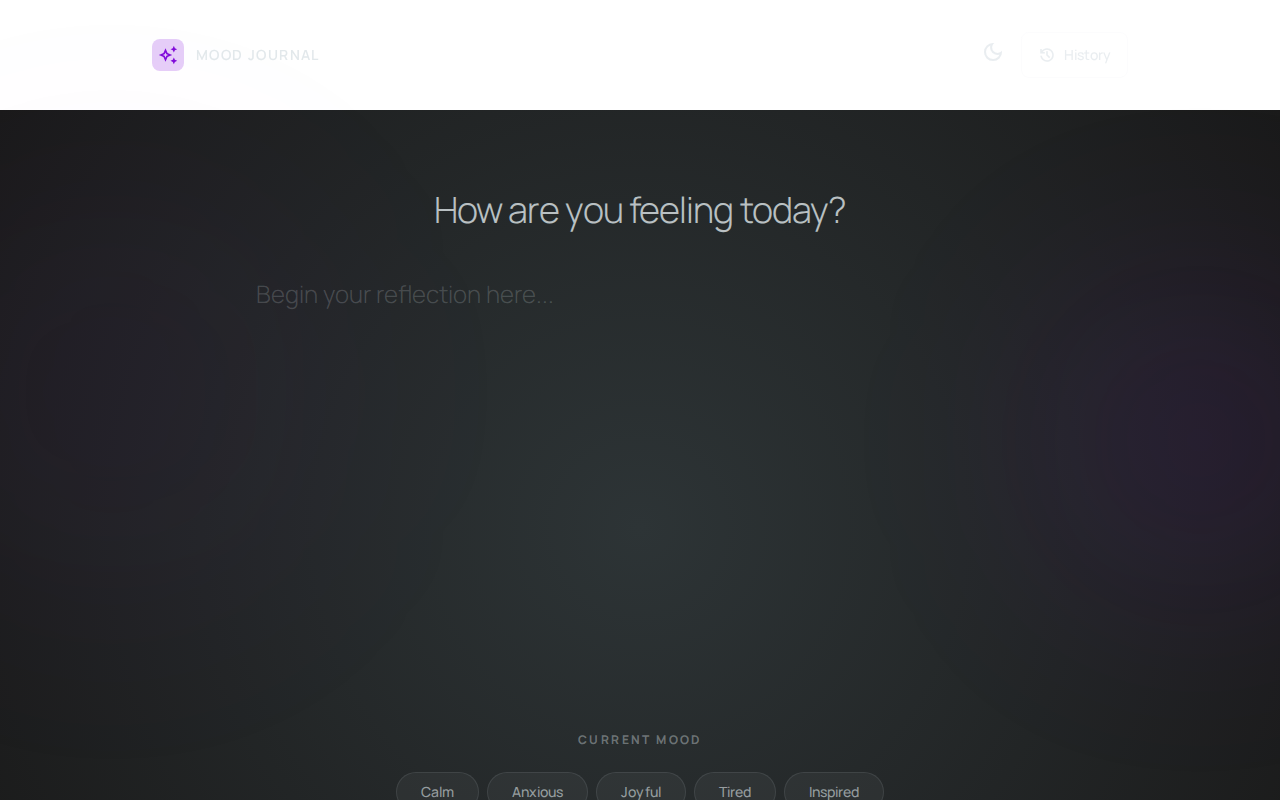
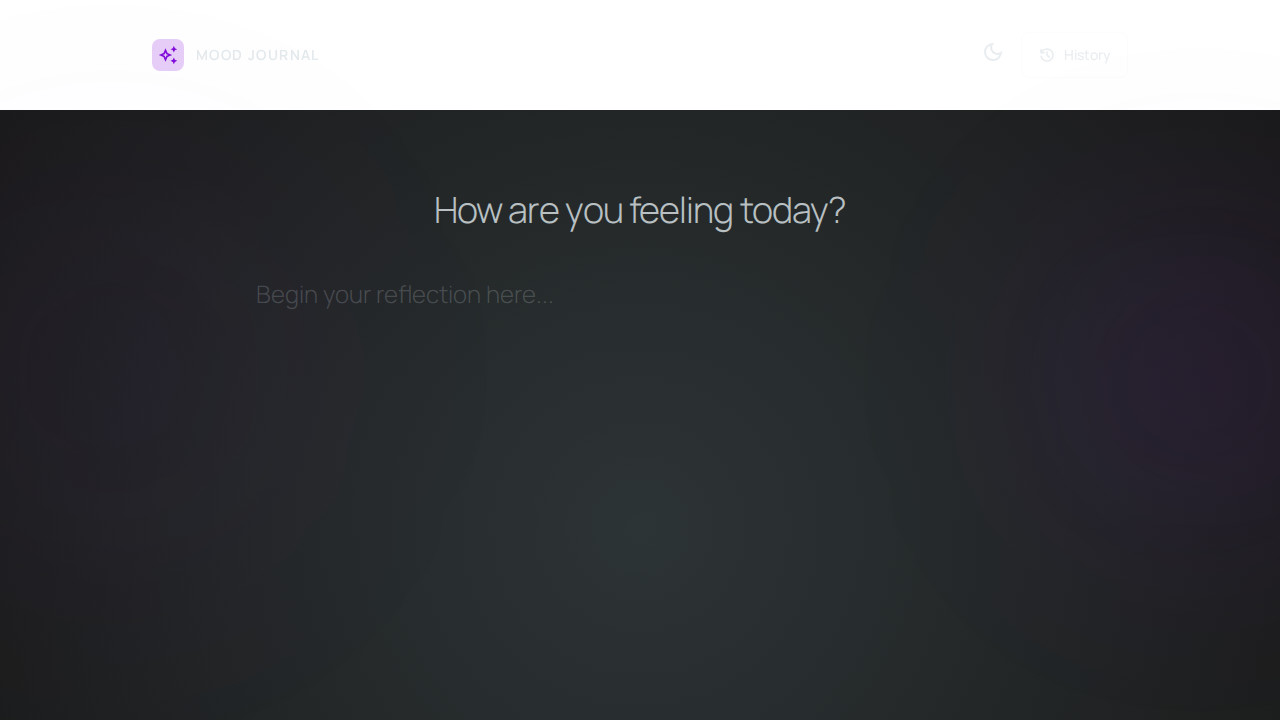
Fix MoodChips visibility on light backgrounds
- Added `editorLight` and `editorActiveLight` variants to `Button` component for better contrast on light backgrounds.
- Updated `MoodChips` to use light variants when `isLightBg` is true.
- Ensures emotion tags are readable when positive/negative sentiment triggers light background colors in the Editor.

diff --git a/src/components/ui/MoodChips.jsx b/src/components/ui/MoodChips.jsx
@@ -7,16 +7,23 @@ export const MoodChips = ({ selectedMood, onSelect, isLightBg }) => {
     <div className="flex flex-col items-center gap-4">
       <h4 className={`${isLightBg ? "text-journal-text/40" : "text-off-white/40"} text-xs font-bold uppercase tracking-[0.2em] transition-colors duration-1500`}>Current Mood</h4>
       <div className="flex gap-2 p-2 flex-wrap justify-center max-w-xl">
-        {MOODS.map((mood) => (
-          <Button
-            key={mood.value}
-            variant={selectedMood === mood.value ? 'editorActive' : 'editor'}
-            onClick={() => onSelect(mood)}
-            className="h-10 px-6 text-sm font-medium transition-all duration-300"
-          >
-            {mood.label}
-          </Button>
-        ))}
+        {MOODS.map((mood) => {
+          const isSelected = selectedMood === mood.value;
+          const variant = isLightBg
+            ? (isSelected ? 'editorActiveLight' : 'editorLight')
+            : (isSelected ? 'editorActive' : 'editor');
+
+          return (
+            <Button
+              key={mood.value}
+              variant={variant}
+              onClick={() => onSelect(mood)}
+              className="h-10 px-6 text-sm font-medium transition-all duration-300"
+            >
+              {mood.label}
+            </Button>
+          );
+        })}
       </div>
     </div>
   );

diff --git a/src/components/ui/Button.jsx b/src/components/ui/Button.jsx
@@ -10,6 +10,8 @@ export const Button = ({ children, className, variant = 'primary', ...props }) =
     ghost: "text-journal-text dark:text-white hover:bg-black/5 dark:hover:bg-white/10",
     editor: "border border-off-white/10 bg-off-white/5 hover:bg-editor-purple/20 hover:border-editor-purple/30 text-off-white/60 hover:text-off-white",
     editorActive: "border border-editor-purple/40 bg-editor-purple/20 text-white",
+    editorLight: "border border-journal-text/20 bg-journal-text/5 hover:bg-journal-text/10 hover:border-journal-text/30 text-journal-text/60 hover:text-journal-text",
+    editorActiveLight: "border border-journal-text/50 bg-journal-text/10 text-journal-text",
     icon: "p-2 rounded-lg hover:bg-white/10 text-current"
   };
 
